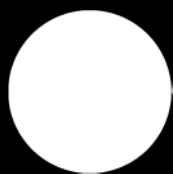
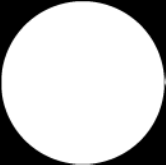
Add fresnel term

Changed region(s): [[0.0, 0.0, 1.0, 1.0]]

diff --git a/protos/cvGlareEffects/cvGlareEffects_main.cpp b/protos/cvGlareEffects/cvGlareEffects_main.cpp
@@ -241,7 +241,7 @@ const string keys =
     "{help h usage ? |         | print this message   }"
     "{@imageA        |         | aperture             }"
     "{@imageB        |         | image                }"
-    "{@lf_scale      |         | scale                }";
+    "{@lf_scale      |         | 1/(lambda * f)       }";
 
 Mat reorderFFT( Mat& K )
 {
@@ -266,7 +266,31 @@ Mat reorderFFT( Mat& K )
    return K;
 }
 
-Mat computeFFTMag( Mat& I )
+void addFresnel(Mat C, float lfscale)
+{
+   Mat_<Vec2f> _C = C;
+   Mat T(C.size(),CV_32F);
+   Mat_<float> _T = T;
+   lfscale = 1.0 / lfscale;
+   const float zdiag = 1.0/sqrt(0.5*C.rows*0.5*C.rows +  0.5*C.cols*0.5*C.cols);
+   for ( int i = 0; i < C.rows; ++i )
+   {
+      const float x =zdiag*lfscale*(i-0.5*C.rows);
+      for ( int j = 0; j < C.cols; ++j )
+      {
+        const float y = zdiag*lfscale*(j-0.5*C.cols);
+        const float t = M_PI*lfscale*(x*x + y*y);
+        _C( i, j )[0] *= std::cos(t);
+        _C( i, j )[1] *= std::sin(t);   
+        _T(i,j) = std::cos(t);
+      }
+   }
+   C = _C;
+   T = _T;
+   imshow("Fresnel", T);
+}
+
+Mat computeFFTSqMag( Mat& I, float lfscale )
 {
    Mat padded;  // expand input image to optimal size
    int m = getOptimalDFTSize( I.rows );
@@ -276,13 +300,19 @@ Mat computeFFTMag( Mat& I )
    Mat planes[] = {Mat_<float>( padded ), Mat::zeros( padded.size(), CV_32F )};
    Mat complexI;
    merge( planes, 2, complexI );  // Add to the expanded another plane with zeros
+    
+   //addFresnel(complexI, lfscale);
 
    dft( complexI, complexI );  // this way the result may fit in the source matrix
 
    // compute the magnitude and switch to logarithmic scale
    // => log(1 + sqrt(Re(DFT(I))^2 + Im(DFT(I))^2))
    split( complexI, planes );                     // planes[0] = Re(DFT(I), planes[1] = Im(DFT(I))
+   float z = 1.0/(complexI.rows*complexI.cols);
+   planes[0] *= z;
+   planes[1] *= z;
    magnitude( planes[0], planes[1], planes[0] );  // planes[0] = magnitude
+   multiply(planes[0],planes[0],planes[1]);
    Mat K = planes[0];
 
    // K += Scalar::all(1);                    // switch to logarithmic scale
@@ -292,8 +322,13 @@ Mat computeFFTMag( Mat& I )
    K = K( Rect( 0, 0, K.cols & -2, K.rows & -2 ) );
 
    K = reorderFFT( K );
+   
+   double minK, maxK;
+   minMaxLoc(K,&minK,&maxK);
+   imshow( "spectrum magnitude", 1000.0*(K-minK)/(maxK-minK) );
+   waitKey();
 
-   return K;
+   return 1000.0*(K-minK)/(maxK-minK);
 }
 
 Mat paddToSize( Mat& src, const Size& toSize )
@@ -400,7 +435,7 @@ int main( int argc, char* argv[] )
    K.convertTo(K, CV_32F);
    K *= 1.0 / 255.0;
    if ( K.empty() ) return -1;
-   addApertureNoise( K, 0.015 );
+   //addApertureNoise( K, 0.015 );
    imshow( "Kernel Image", K );  // Show the result
 
    Mat I = imread( inputFilenameB.c_str(), CV_LOAD_IMAGE_COLOR );
@@ -409,36 +444,39 @@ int main( int argc, char* argv[] )
    I *= 1.0 / 255.0;
    imshow( "Input Image", I );  // Show the result
 
-   K = paddToSize( K, I.size() + I.size() );
-   if ( lf_scale > 1.0 )
-   {
-      K = paddToSize( K, Size( lf_scale * K.size().width, lf_scale * K.size().height ) );
-   }
-   K = computeFFTMag( K );
+   //K = paddToSize( K, I.size() + I.size() );
 
+   Size okSize = K.size();
    if ( lf_scale > 1.0 )
    {
-      Size roi_size( K.cols / lf_scale, K.rows / lf_scale );
-      Point2f roi_center( 0.5 * K.cols, 0.5 * K.rows );
-      Mat KTransformed(
-          K,
-          Rect(
-              roi_center.x - 0.5 * roi_size.width,
-              roi_center.y - 0.5 * roi_size.height,
-              roi_size.width,
-              roi_size.height ) );
+      //K = paddToSize( K, Size( lf_scale * K.size().width, lf_scale * K.size().height ) );
+      cv::resize(K, K, cv::Size(), lf_scale, lf_scale);
+      //K = paddToSize( K, okSize );
+      imshow( "Kernel Image", K );
+   }
+   else
+   {
+      cv::resize(K, K, cv::Size(), lf_scale, lf_scale);
+      K = paddToSize( K, okSize );
+      imshow( "Kernel Image", K );
+   }
+   K = computeFFTSqMag( K, lf_scale );
+   //K = cropToSize(K,okSize);
+   
+   {
       // scale down for integration
-      double minKMag, maxKMag;
-      minMaxLoc( K, &minKMag, &maxKMag );
-      K = 0.01 * KTransformed;  //  / ( /*(lf_scale*lf_scale) / */ ( K.cols * K.rows ) );
-      imshow( "spectrum magnitude", KTransformed / maxKMag );
+      double minK, maxK;
+      minMaxLoc(K,&minK,&maxK);
+      //K = lf_scale * lf_scale * K;
+      imshow( "spectrum magnitude", K );
    }
-
+   
    Mat bgr( K.size().width, K.size().height, CV_32FC3 );
    {
       Mat x = Mat::zeros( K.size().width, K.size().height, CV_32F );
       Mat y = Mat::zeros( K.size().width, K.size().height, CV_32F );
       Mat z = Mat::zeros( K.size().width, K.size().height, CV_32F );
+      
       const int nbSamples = 100;
       const float refWL = 575;
       const float startWL = 390;
@@ -452,9 +490,10 @@ int main( int argc, char* argv[] )
          const float scale = refWL / currWL;
          const float ascale = 1.0 / ( ( fscale * refWL * fscale * refWL ) * nbSamples );
 
-         Mat scale_mat = getRotationMatrix2D( Point2f( 0.5 * K.cols, 0.5 * K.rows ), 0.0, scale );
+         Mat scale_mat = getRotationMatrix2D( Point2f( 0.5 * K.size().width, 
+            0.5 * K.size().height ), 0.0, scale );
          Mat tempA( K.size().width, K.size().height, K.type() );
-         warpAffine( K, tempA, scale_mat, tempA.size(), INTER_LINEAR );
+         warpAffine( K, tempA, scale_mat, tempA.size(), INTER_CUBIC );
 
          x += ascale * tempA * IP_XYZ_2DEG_390_830[currI][0];
          y += ascale * tempA * IP_XYZ_2DEG_390_830[currI][1];
@@ -466,14 +505,26 @@ int main( int argc, char* argv[] )
       merge( &x_y_z[0], 3, xyz );
 
       bgr = xyz;
+      imshow( "result colour CIE", xyz );
       cvtColor( xyz, bgr, COLOR_XYZ2BGR );
       imshow( "result colour", bgr );
+      waitKey();
    }
 
-   //   I = I * 10.0;
+   Mat L = Mat::zeros(I.size().width,I.size().height,CV_32FC3);
+   /*for (int i=0;i<10;++i)
+   {
+        int x = static_cast<int>(I.size().width*((float)std::rand()/RAND_MAX));
+        int y = static_cast<int>(I.size().height*((float)std::rand()/RAND_MAX));
+        L.at<Vec3f>(x,y) = 100.0* Vec3f(1.0,1.0,1.0);
+   }*/
+   L.at<Vec3f>(L.size().width/2,L.size().height/2) = 0.1 * Vec3f(1.0,1.0,1.0);
+   convolveDFT( L, bgr, bgr );
 
-   convolveDFT( I, bgr, bgr );
-   // normalize(bgr, bgr, 0, 1, CV_MINMAX);
+   imshow( "result conv overlay", bgr );
+
+   bgr += I;
+   //normalize(bgr, bgr, 0, 1, CV_MINMAX);
 
    imshow( "result conv", bgr );
 
